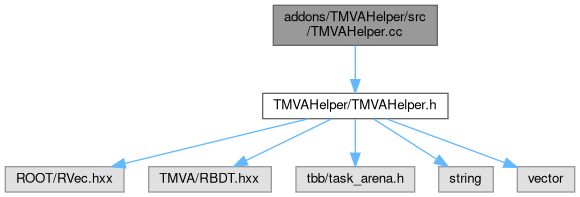
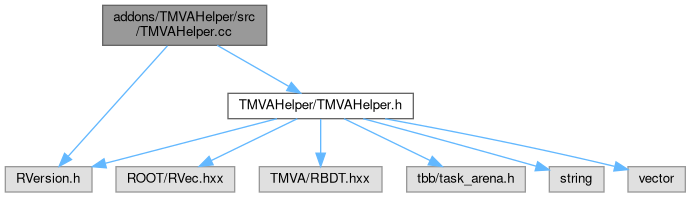
deploy: dae0778e138b87f5f8400c98a931d85608c24385

diff --git a/doc/latest/TMVAHelper_8h_source.html b/doc/latest/TMVAHelper_8h_source.html
@@ -95,35 +95,40 @@ $(document).ready(function() { init_codefold(0); });
 <div class="line"><a id="l00003" name="l00003"></a><span class="lineno">    3</span> </div>
 <div class="line"><a id="l00004" name="l00004"></a><span class="lineno">    4</span><span class="comment">// ROOT</span></div>
 <div class="line"><a id="l00005" name="l00005"></a><span class="lineno">    5</span><span class="preprocessor">#include &quot;ROOT/RVec.hxx&quot;</span></div>
-<div class="line"><a id="l00006" name="l00006"></a><span class="lineno">    6</span><span class="preprocessor">#include &quot;TMVA/RBDT.hxx&quot;</span></div>
-<div class="line"><a id="l00007" name="l00007"></a><span class="lineno">    7</span> </div>
-<div class="line"><a id="l00008" name="l00008"></a><span class="lineno">    8</span><span class="comment">// TBB</span></div>
-<div class="line"><a id="l00009" name="l00009"></a><span class="lineno">    9</span><span class="preprocessor">#include &lt;tbb/task_arena.h&gt;</span></div>
-<div class="line"><a id="l00010" name="l00010"></a><span class="lineno">   10</span> </div>
-<div class="line"><a id="l00011" name="l00011"></a><span class="lineno">   11</span><span class="comment">// std</span></div>
-<div class="line"><a id="l00012" name="l00012"></a><span class="lineno">   12</span><span class="preprocessor">#include &lt;string&gt;</span></div>
-<div class="line"><a id="l00013" name="l00013"></a><span class="lineno">   13</span><span class="preprocessor">#include &lt;vector&gt;</span></div>
-<div class="line"><a id="l00014" name="l00014"></a><span class="lineno">   14</span> </div>
-<div class="foldopen" id="foldopen00015" data-start="{" data-end="};">
-<div class="line"><a id="l00015" name="l00015"></a><span class="lineno"><a class="line" href="classtmva__helper__xgb.html">   15</a></span><span class="keyword">class </span><a class="code hl_class" href="classtmva__helper__xgb.html">tmva_helper_xgb</a> {</div>
-<div class="line"><a id="l00016" name="l00016"></a><span class="lineno">   16</span><span class="keyword">public</span>:</div>
-<div class="line"><a id="l00017" name="l00017"></a><span class="lineno">   17</span>  <a class="code hl_class" href="classtmva__helper__xgb.html">tmva_helper_xgb</a>(<span class="keyword">const</span> std::string &amp;filename, <span class="keyword">const</span> std::string &amp;name,</div>
-<div class="line"><a id="l00018" name="l00018"></a><span class="lineno">   18</span>                  <span class="keyword">const</span> <span class="keywordtype">unsigned</span> <span class="keywordtype">int</span> nslots = 1);</div>
-<div class="line"><a id="l00019" name="l00019"></a><span class="lineno"><a class="line" href="classtmva__helper__xgb.html#ae3541c62e3aa9a477e19b262e0522b0e">   19</a></span>  <a class="code hl_function" href="classtmva__helper__xgb.html#ae3541c62e3aa9a477e19b262e0522b0e">~tmva_helper_xgb</a>() {};</div>
-<div class="line"><a id="l00020" name="l00020"></a><span class="lineno">   20</span>  ROOT::VecOps::RVec&lt;float&gt; <a class="code hl_function" href="classtmva__helper__xgb.html#ad28b93612c9216be68f0e30ecfea7b20">operator()</a>(<span class="keyword">const</span> ROOT::VecOps::RVec&lt;float&gt; vars);</div>
-<div class="line"><a id="l00021" name="l00021"></a><span class="lineno">   21</span> </div>
-<div class="line"><a id="l00022" name="l00022"></a><span class="lineno">   22</span><span class="keyword">private</span>:</div>
-<div class="line"><a id="l00023" name="l00023"></a><span class="lineno">   23</span>  <span class="comment">// Default backend (template parameter) is:</span></div>
-<div class="line"><a id="l00024" name="l00024"></a><span class="lineno">   24</span>  <span class="comment">// TMVA::Experimental::BranchlessJittedForest&lt;float&gt;</span></div>
-<div class="line"><a id="l00025" name="l00025"></a><span class="lineno"><a class="line" href="classtmva__helper__xgb.html#a1504b21fe6d04b79ae1ba8093d2e6668">   25</a></span>  std::vector&lt;TMVA::Experimental::RBDT&lt;&gt;&gt; <a class="code hl_variable" href="classtmva__helper__xgb.html#a1504b21fe6d04b79ae1ba8093d2e6668">m_interpreters</a>;</div>
-<div class="line"><a id="l00026" name="l00026"></a><span class="lineno">   26</span>};</div>
+<div class="line"><a id="l00006" name="l00006"></a><span class="lineno">    6</span><span class="preprocessor">#include &quot;RVersion.h&quot;</span></div>
+<div class="line"><a id="l00007" name="l00007"></a><span class="lineno">    7</span><span class="preprocessor">#include &quot;TMVA/RBDT.hxx&quot;</span></div>
+<div class="line"><a id="l00008" name="l00008"></a><span class="lineno">    8</span> </div>
+<div class="line"><a id="l00009" name="l00009"></a><span class="lineno">    9</span><span class="comment">// TBB</span></div>
+<div class="line"><a id="l00010" name="l00010"></a><span class="lineno">   10</span><span class="preprocessor">#include &lt;tbb/task_arena.h&gt;</span></div>
+<div class="line"><a id="l00011" name="l00011"></a><span class="lineno">   11</span> </div>
+<div class="line"><a id="l00012" name="l00012"></a><span class="lineno">   12</span><span class="comment">// std</span></div>
+<div class="line"><a id="l00013" name="l00013"></a><span class="lineno">   13</span><span class="preprocessor">#include &lt;string&gt;</span></div>
+<div class="line"><a id="l00014" name="l00014"></a><span class="lineno">   14</span><span class="preprocessor">#include &lt;vector&gt;</span></div>
+<div class="line"><a id="l00015" name="l00015"></a><span class="lineno">   15</span> </div>
+<div class="foldopen" id="foldopen00016" data-start="{" data-end="};">
+<div class="line"><a id="l00016" name="l00016"></a><span class="lineno"><a class="line" href="classtmva__helper__xgb.html">   16</a></span><span class="keyword">class </span><a class="code hl_class" href="classtmva__helper__xgb.html">tmva_helper_xgb</a> {</div>
+<div class="line"><a id="l00017" name="l00017"></a><span class="lineno">   17</span><span class="keyword">public</span>:</div>
+<div class="line"><a id="l00018" name="l00018"></a><span class="lineno">   18</span>  <a class="code hl_class" href="classtmva__helper__xgb.html">tmva_helper_xgb</a>(<span class="keyword">const</span> std::string &amp;filename, <span class="keyword">const</span> std::string &amp;name,</div>
+<div class="line"><a id="l00019" name="l00019"></a><span class="lineno">   19</span>                  <span class="keyword">const</span> <span class="keywordtype">unsigned</span> <span class="keywordtype">int</span> nslots = 1);</div>
+<div class="line"><a id="l00020" name="l00020"></a><span class="lineno"><a class="line" href="classtmva__helper__xgb.html#ae3541c62e3aa9a477e19b262e0522b0e">   20</a></span>  <a class="code hl_function" href="classtmva__helper__xgb.html#ae3541c62e3aa9a477e19b262e0522b0e">~tmva_helper_xgb</a>() {};</div>
+<div class="line"><a id="l00021" name="l00021"></a><span class="lineno">   21</span>  ROOT::VecOps::RVec&lt;float&gt; <a class="code hl_function" href="classtmva__helper__xgb.html#ad28b93612c9216be68f0e30ecfea7b20">operator()</a>(<span class="keyword">const</span> ROOT::VecOps::RVec&lt;float&gt; vars);</div>
+<div class="line"><a id="l00022" name="l00022"></a><span class="lineno">   22</span> </div>
+<div class="line"><a id="l00023" name="l00023"></a><span class="lineno">   23</span><span class="keyword">private</span>:</div>
+<div class="line"><a id="l00024" name="l00024"></a><span class="lineno">   24</span>  <span class="comment">// Default backend (template parameter) is:</span></div>
+<div class="line"><a id="l00025" name="l00025"></a><span class="lineno">   25</span>  <span class="comment">// TMVA::Experimental::BranchlessJittedForest&lt;float&gt;</span></div>
+<div class="line"><a id="l00026" name="l00026"></a><span class="lineno">   26</span><span class="preprocessor">#if ROOT_VERSION_CODE &gt;= ROOT_VERSION(6, 32, 0)</span></div>
+<div class="line"><a id="l00027" name="l00027"></a><span class="lineno"><a class="line" href="classtmva__helper__xgb.html#a1cfd45bd8126ea25c943ca53a1dcde8b">   27</a></span>  std::vector&lt;TMVA::Experimental::RBDT&gt; <a class="code hl_variable" href="classtmva__helper__xgb.html#a1cfd45bd8126ea25c943ca53a1dcde8b">m_interpreters</a>;</div>
+<div class="line"><a id="l00028" name="l00028"></a><span class="lineno">   28</span><span class="preprocessor">#else</span></div>
+<div class="line"><a id="l00029" name="l00029"></a><span class="lineno">   29</span>  std::vector&lt;TMVA::Experimental::RBDT&lt;&gt;&gt; <a class="code hl_variable" href="classtmva__helper__xgb.html#a1cfd45bd8126ea25c943ca53a1dcde8b">m_interpreters</a>;</div>
+<div class="line"><a id="l00030" name="l00030"></a><span class="lineno">   30</span><span class="preprocessor">#endif</span></div>
+<div class="line"><a id="l00031" name="l00031"></a><span class="lineno">   31</span>};</div>
 </div>
-<div class="line"><a id="l00027" name="l00027"></a><span class="lineno">   27</span> </div>
-<div class="line"><a id="l00028" name="l00028"></a><span class="lineno">   28</span><span class="preprocessor">#endif</span></div>
-<div class="ttc" id="aclasstmva__helper__xgb_html"><div class="ttname"><a href="classtmva__helper__xgb.html">tmva_helper_xgb</a></div><div class="ttdef"><b>Definition</b> TMVAHelper.h:15</div></div>
-<div class="ttc" id="aclasstmva__helper__xgb_html_a1504b21fe6d04b79ae1ba8093d2e6668"><div class="ttname"><a href="classtmva__helper__xgb.html#a1504b21fe6d04b79ae1ba8093d2e6668">tmva_helper_xgb::m_interpreters</a></div><div class="ttdeci">std::vector&lt; TMVA::Experimental::RBDT&lt;&gt; &gt; m_interpreters</div><div class="ttdef"><b>Definition</b> TMVAHelper.h:25</div></div>
-<div class="ttc" id="aclasstmva__helper__xgb_html_ad28b93612c9216be68f0e30ecfea7b20"><div class="ttname"><a href="classtmva__helper__xgb.html#ad28b93612c9216be68f0e30ecfea7b20">tmva_helper_xgb::operator()</a></div><div class="ttdeci">ROOT::VecOps::RVec&lt; float &gt; operator()(const ROOT::VecOps::RVec&lt; float &gt; vars)</div><div class="ttdef"><b>Definition</b> TMVAHelper.cc:15</div></div>
-<div class="ttc" id="aclasstmva__helper__xgb_html_ae3541c62e3aa9a477e19b262e0522b0e"><div class="ttname"><a href="classtmva__helper__xgb.html#ae3541c62e3aa9a477e19b262e0522b0e">tmva_helper_xgb::~tmva_helper_xgb</a></div><div class="ttdeci">~tmva_helper_xgb()</div><div class="ttdef"><b>Definition</b> TMVAHelper.h:19</div></div>
+<div class="line"><a id="l00032" name="l00032"></a><span class="lineno">   32</span> </div>
+<div class="line"><a id="l00033" name="l00033"></a><span class="lineno">   33</span><span class="preprocessor">#endif</span></div>
+<div class="ttc" id="aclasstmva__helper__xgb_html"><div class="ttname"><a href="classtmva__helper__xgb.html">tmva_helper_xgb</a></div><div class="ttdef"><b>Definition</b> TMVAHelper.h:16</div></div>
+<div class="ttc" id="aclasstmva__helper__xgb_html_a1cfd45bd8126ea25c943ca53a1dcde8b"><div class="ttname"><a href="classtmva__helper__xgb.html#a1cfd45bd8126ea25c943ca53a1dcde8b">tmva_helper_xgb::m_interpreters</a></div><div class="ttdeci">std::vector&lt; TMVA::Experimental::RBDT &gt; m_interpreters</div><div class="ttdef"><b>Definition</b> TMVAHelper.h:27</div></div>
+<div class="ttc" id="aclasstmva__helper__xgb_html_ad28b93612c9216be68f0e30ecfea7b20"><div class="ttname"><a href="classtmva__helper__xgb.html#ad28b93612c9216be68f0e30ecfea7b20">tmva_helper_xgb::operator()</a></div><div class="ttdeci">ROOT::VecOps::RVec&lt; float &gt; operator()(const ROOT::VecOps::RVec&lt; float &gt; vars)</div><div class="ttdef"><b>Definition</b> TMVAHelper.cc:22</div></div>
+<div class="ttc" id="aclasstmva__helper__xgb_html_ae3541c62e3aa9a477e19b262e0522b0e"><div class="ttname"><a href="classtmva__helper__xgb.html#ae3541c62e3aa9a477e19b262e0522b0e">tmva_helper_xgb::~tmva_helper_xgb</a></div><div class="ttdeci">~tmva_helper_xgb()</div><div class="ttdef"><b>Definition</b> TMVAHelper.h:20</div></div>
 </div><!-- fragment --></div><!-- contents -->
 <!-- HTML footer for doxygen 1.9.8-->
 <!-- start footer part -->

diff --git a/doc/latest/classtmva__helper__xgb.html b/doc/latest/classtmva__helper__xgb.html
@@ -92,9 +92,9 @@ Collaboration diagram for tmva_helper_xgb:</div>
 <div class="dyncontent">
 <div class="center"><img src="classtmva__helper__xgb__coll__graph.png" border="0" usemap="#atmva__helper__xgb_coll__map" alt="Collaboration graph"/></div>
 <map name="atmva__helper__xgb_coll__map" id="atmva__helper__xgb_coll__map">
-<area shape="rect" title=" " alt="" coords="31,108,151,133"/>
-<area shape="rect" title=" " alt="" coords="5,5,176,45"/>
-<area shape="poly" title=" " alt="" coords="93,59,93,108,88,108,88,59"/>
+<area shape="rect" title=" " alt="" coords="23,108,143,133"/>
+<area shape="rect" title=" " alt="" coords="5,5,160,45"/>
+<area shape="poly" title=" " alt="" coords="85,59,85,108,80,108,80,59"/>
 </map>
 <center><span class="legend">[<a href="graph_legend.html">legend</a>]</span></center></div>
 <table class="memberdecls">
@@ -109,8 +109,8 @@ Public Member Functions</h2></td></tr>
 </table><table class="memberdecls">
 <tr class="heading"><td colspan="2"><h2 class="groupheader"><a id="pri-attribs" name="pri-attribs"></a>
 Private Attributes</h2></td></tr>
-<tr class="memitem:a1504b21fe6d04b79ae1ba8093d2e6668" id="r_a1504b21fe6d04b79ae1ba8093d2e6668"><td class="memItemLeft" align="right" valign="top">std::vector&lt; TMVA::Experimental::RBDT&lt;&gt; &gt;&#160;</td><td class="memItemRight" valign="bottom"><a class="el" href="classtmva__helper__xgb.html#a1504b21fe6d04b79ae1ba8093d2e6668">m_interpreters</a></td></tr>
-<tr class="separator:a1504b21fe6d04b79ae1ba8093d2e6668"><td class="memSeparator" colspan="2">&#160;</td></tr>
+<tr class="memitem:a1cfd45bd8126ea25c943ca53a1dcde8b" id="r_a1cfd45bd8126ea25c943ca53a1dcde8b"><td class="memItemLeft" align="right" valign="top">std::vector&lt; TMVA::Experimental::RBDT &gt;&#160;</td><td class="memItemRight" valign="bottom"><a class="el" href="classtmva__helper__xgb.html#a1cfd45bd8126ea25c943ca53a1dcde8b">m_interpreters</a></td></tr>
+<tr class="separator:a1cfd45bd8126ea25c943ca53a1dcde8b"><td class="memSeparator" colspan="2">&#160;</td></tr>
 </table>
 <h2 class="groupheader">Constructor &amp; Destructor Documentation</h2>
 <a id="ab811a37ae2568b3469f97adcea655cd0" name="ab811a37ae2568b3469f97adcea655cd0"></a>
@@ -192,8 +192,8 @@ Private Attributes</h2></td></tr>
 </div>
 </div>
 <h2 class="groupheader">Member Data Documentation</h2>
-<a id="a1504b21fe6d04b79ae1ba8093d2e6668" name="a1504b21fe6d04b79ae1ba8093d2e6668"></a>
-<h2 class="memtitle"><span class="permalink"><a href="#a1504b21fe6d04b79ae1ba8093d2e6668">&#9670;&#160;</a></span>m_interpreters</h2>
+<a id="a1cfd45bd8126ea25c943ca53a1dcde8b" name="a1cfd45bd8126ea25c943ca53a1dcde8b"></a>
+<h2 class="memtitle"><span class="permalink"><a href="#a1cfd45bd8126ea25c943ca53a1dcde8b">&#9670;&#160;</a></span>m_interpreters</h2>
 
 <div class="memitem">
 <div class="memproto">
@@ -202,7 +202,7 @@ Private Attributes</h2></td></tr>
   <td class="mlabels-left">
       <table class="memname">
         <tr>
-          <td class="memname">std::vector&lt;TMVA::Experimental::RBDT&lt;&gt; &gt; tmva_helper_xgb::m_interpreters</td>
+          <td class="memname">std::vector&lt;TMVA::Experimental::RBDT&gt; tmva_helper_xgb::m_interpreters</td>
         </tr>
       </table>
   </td>

diff --git a/doc/latest/TMVAHelper_8cc.html b/doc/latest/TMVAHelper_8cc.html
@@ -86,24 +86,28 @@ $(function() {
 </div><!--header-->
 <div class="contents">
 <div class="textblock"><code>#include &quot;<a class="el" href="TMVAHelper_8h_source.html">TMVAHelper/TMVAHelper.h</a>&quot;</code><br />
+<code>#include &quot;RVersion.h&quot;</code><br />
 </div><div class="textblock"><div class="dynheader">
 Include dependency graph for TMVAHelper.cc:</div>
 <div class="dyncontent">
 <div class="center"><img src="TMVAHelper_8cc__incl.png" border="0" usemap="#aaddons_2TMVAHelper_2src_2TMVAHelper_8cc" alt=""/></div>
 <map name="aaddons_2TMVAHelper_2src_2TMVAHelper_8cc" id="aaddons_2TMVAHelper_2src_2TMVAHelper_8cc">
-<area shape="rect" title=" " alt="" coords="273,5,437,45"/>
-<area shape="rect" href="TMVAHelper_8h.html" title=" " alt="" coords="263,93,448,119"/>
-<area shape="poly" title=" " alt="" coords="358,46,358,79,353,79,353,46"/>
-<area shape="rect" title=" " alt="" coords="5,167,124,192"/>
-<area shape="poly" title=" " alt="" coords="309,121,125,166,124,161,308,116"/>
-<area shape="rect" title=" " alt="" coords="149,167,271,192"/>
-<area shape="poly" title=" " alt="" coords="333,121,247,163,245,158,331,116"/>
-<area shape="rect" title=" " alt="" coords="296,167,415,192"/>
-<area shape="poly" title=" " alt="" coords="358,119,358,153,353,153,353,119"/>
-<area shape="rect" title=" " alt="" coords="439,167,493,192"/>
-<area shape="poly" title=" " alt="" coords="375,116,438,157,435,161,372,121"/>
-<area shape="rect" title=" " alt="" coords="517,167,575,192"/>
-<area shape="poly" title=" " alt="" coords="387,116,505,160,504,165,385,121"/>
+<area shape="rect" title=" " alt="" coords="103,5,267,45"/>
+<area shape="rect" href="TMVAHelper_8h.html" title=" " alt="" coords="228,93,413,119"/>
+<area shape="poly" title=" " alt="" coords="219,43,290,84,287,89,216,48"/>
+<area shape="rect" title=" " alt="" coords="5,167,92,192"/>
+<area shape="poly" title=" " alt="" coords="169,48,70,158,66,154,165,44"/>
+<area shape="rect" title=" " alt="" coords="116,167,235,192"/>
+<area shape="poly" title=" " alt="" coords="298,121,212,163,210,158,296,116"/>
+<area shape="poly" title=" " alt="" coords="278,121,106,166,105,161,276,116"/>
+<area shape="rect" title=" " alt="" coords="259,167,382,192"/>
+<area shape="poly" title=" " alt="" coords="323,119,323,153,318,153,318,119"/>
+<area shape="rect" title=" " alt="" coords="407,167,525,192"/>
+<area shape="poly" title=" " alt="" coords="345,116,431,158,429,163,343,121"/>
+<area shape="rect" title=" " alt="" coords="549,167,604,192"/>
+<area shape="poly" title=" " alt="" coords="364,116,537,164,535,169,363,121"/>
+<area shape="rect" title=" " alt="" coords="628,167,685,192"/>
+<area shape="poly" title=" " alt="" coords="386,116,615,164,614,169,385,121"/>
 </map>
 </div>
 </div></div><!-- contents -->

diff --git a/doc/latest/TMVAHelper_8h.html b/doc/latest/TMVAHelper_8h.html
@@ -88,6 +88,7 @@ $(function() {
 </div><!--header-->
 <div class="contents">
 <div class="textblock"><code>#include &quot;ROOT/RVec.hxx&quot;</code><br />
+<code>#include &quot;RVersion.h&quot;</code><br />
 <code>#include &quot;TMVA/RBDT.hxx&quot;</code><br />
 <code>#include &lt;tbb/task_arena.h&gt;</code><br />
 <code>#include &lt;string&gt;</code><br />
@@ -97,17 +98,19 @@ Include dependency graph for TMVAHelper.h:</div>
 <div class="dyncontent">
 <div class="center"><img src="TMVAHelper_8h__incl.png" border="0" usemap="#aaddons_2TMVAHelper_2TMVAHelper_8h" alt=""/></div>
 <map name="aaddons_2TMVAHelper_2TMVAHelper_8h" id="aaddons_2TMVAHelper_2TMVAHelper_8h">
-<area shape="rect" title=" " alt="" coords="240,5,471,31"/>
+<area shape="rect" title=" " alt="" coords="277,5,508,31"/>
 <area shape="rect" title=" " alt="" coords="5,79,124,104"/>
-<area shape="poly" title=" " alt="" coords="309,33,125,78,124,73,308,28"/>
-<area shape="rect" title=" " alt="" coords="149,79,271,104"/>
-<area shape="poly" title=" " alt="" coords="333,33,247,75,245,70,331,28"/>
-<area shape="rect" title=" " alt="" coords="296,79,415,104"/>
-<area shape="poly" title=" " alt="" coords="358,31,358,65,353,65,353,31"/>
-<area shape="rect" title=" " alt="" coords="439,79,493,104"/>
-<area shape="poly" title=" " alt="" coords="375,28,438,69,435,73,372,33"/>
-<area shape="rect" title=" " alt="" coords="517,79,575,104"/>
-<area shape="poly" title=" " alt="" coords="387,28,505,72,504,77,385,33"/>
+<area shape="poly" title=" " alt="" coords="341,33,131,78,130,73,339,28"/>
+<area shape="rect" title=" " alt="" coords="148,79,235,104"/>
+<area shape="poly" title=" " alt="" coords="361,33,238,77,236,71,359,28"/>
+<area shape="rect" title=" " alt="" coords="259,79,382,104"/>
+<area shape="poly" title=" " alt="" coords="383,33,344,71,340,67,379,29"/>
+<area shape="rect" title=" " alt="" coords="407,79,525,104"/>
+<area shape="poly" title=" " alt="" coords="407,29,446,67,442,71,403,33"/>
+<area shape="rect" title=" " alt="" coords="549,79,604,104"/>
+<area shape="poly" title=" " alt="" coords="423,28,537,72,535,77,421,33"/>
+<area shape="rect" title=" " alt="" coords="628,79,685,104"/>
+<area shape="poly" title=" " alt="" coords="437,28,616,76,614,81,436,33"/>
 </map>
 </div>
 </div><div class="textblock"><div class="dynheader">

diff --git a/doc/latest/classtmva__helper__xgb-members.html b/doc/latest/classtmva__helper__xgb-members.html
@@ -84,7 +84,7 @@ $(function() {
 
 <p>This is the complete list of members for <a class="el" href="classtmva__helper__xgb.html">tmva_helper_xgb</a>, including all inherited members.</p>
 <table class="directory">
-  <tr class="even"><td class="entry"><a class="el" href="classtmva__helper__xgb.html#a1504b21fe6d04b79ae1ba8093d2e6668">m_interpreters</a></td><td class="entry"><a class="el" href="classtmva__helper__xgb.html">tmva_helper_xgb</a></td><td class="entry"><span class="mlabel">private</span></td></tr>
+  <tr class="even"><td class="entry"><a class="el" href="classtmva__helper__xgb.html#a1cfd45bd8126ea25c943ca53a1dcde8b">m_interpreters</a></td><td class="entry"><a class="el" href="classtmva__helper__xgb.html">tmva_helper_xgb</a></td><td class="entry"><span class="mlabel">private</span></td></tr>
   <tr class="odd"><td class="entry"><a class="el" href="classtmva__helper__xgb.html#ad28b93612c9216be68f0e30ecfea7b20">operator()</a>(const ROOT::VecOps::RVec&lt; float &gt; vars)</td><td class="entry"><a class="el" href="classtmva__helper__xgb.html">tmva_helper_xgb</a></td><td class="entry"></td></tr>
   <tr class="even"><td class="entry"><a class="el" href="classtmva__helper__xgb.html#ab811a37ae2568b3469f97adcea655cd0">tmva_helper_xgb</a>(const std::string &amp;filename, const std::string &amp;name, const unsigned int nslots=1)</td><td class="entry"><a class="el" href="classtmva__helper__xgb.html">tmva_helper_xgb</a></td><td class="entry"></td></tr>
   <tr class="odd"><td class="entry"><a class="el" href="classtmva__helper__xgb.html#ae3541c62e3aa9a477e19b262e0522b0e">~tmva_helper_xgb</a>()</td><td class="entry"><a class="el" href="classtmva__helper__xgb.html">tmva_helper_xgb</a></td><td class="entry"><span class="mlabel">inline</span></td></tr>

diff --git a/doc/latest/functions_m.html b/doc/latest/functions_m.html
@@ -103,7 +103,7 @@ $(function() {
 <li>m_inclusiveDecay&#160;:&#160;<a class="el" href="structFCCAnalyses_1_1MCParticle_1_1get__indices.html#a779621e350fd47ed2d4149d3b09f769e">FCCAnalyses::MCParticle::get_indices</a></li>
 <li>m_index&#160;:&#160;<a class="el" href="structFCCAnalyses_1_1MCParticle_1_1get__tree.html#a2f9542628db1b388d3f52fac4803c315">FCCAnalyses::MCParticle::get_tree</a></li>
 <li>m_inf&#160;:&#160;<a class="el" href="structFCCAnalyses_1_1MCParticle_1_1get__decay.html#ae13868d985cfaf0715b27959fd3f4f77">FCCAnalyses::MCParticle::get_decay</a></li>
-<li>m_interpreters&#160;:&#160;<a class="el" href="classtmva__helper__xgb.html#a1504b21fe6d04b79ae1ba8093d2e6668">tmva_helper_xgb</a></li>
+<li>m_interpreters&#160;:&#160;<a class="el" href="classtmva__helper__xgb.html#a1cfd45bd8126ea25c943ca53a1dcde8b">tmva_helper_xgb</a></li>
 <li>m_mass&#160;:&#160;<a class="el" href="structFCCAnalyses_1_1myUtils_1_1build__D0.html#ae2889d05c7b51930024c38b344da94f8">FCCAnalyses::myUtils::build_D0</a></li>
 <li>m_masshigh&#160;:&#160;<a class="el" href="structFCCAnalyses_1_1myUtils_1_1build__tau23pi.html#a64a7baba427a241ed3838e4f2fd407b9">FCCAnalyses::myUtils::build_tau23pi</a></li>
 <li>m_masslow&#160;:&#160;<a class="el" href="structFCCAnalyses_1_1myUtils_1_1build__tau23pi.html#a53b5393605647dda58fb48b9b13e41d8">FCCAnalyses::myUtils::build_tau23pi</a></li>

diff --git a/doc/latest/functions_vars_m.html b/doc/latest/functions_vars_m.html
@@ -103,7 +103,7 @@ $(function() {
 <li>m_inclusiveDecay&#160;:&#160;<a class="el" href="structFCCAnalyses_1_1MCParticle_1_1get__indices.html#a779621e350fd47ed2d4149d3b09f769e">FCCAnalyses::MCParticle::get_indices</a></li>
 <li>m_index&#160;:&#160;<a class="el" href="structFCCAnalyses_1_1MCParticle_1_1get__tree.html#a2f9542628db1b388d3f52fac4803c315">FCCAnalyses::MCParticle::get_tree</a></li>
 <li>m_inf&#160;:&#160;<a class="el" href="structFCCAnalyses_1_1MCParticle_1_1get__decay.html#ae13868d985cfaf0715b27959fd3f4f77">FCCAnalyses::MCParticle::get_decay</a></li>
-<li>m_interpreters&#160;:&#160;<a class="el" href="classtmva__helper__xgb.html#a1504b21fe6d04b79ae1ba8093d2e6668">tmva_helper_xgb</a></li>
+<li>m_interpreters&#160;:&#160;<a class="el" href="classtmva__helper__xgb.html#a1cfd45bd8126ea25c943ca53a1dcde8b">tmva_helper_xgb</a></li>
 <li>m_mass&#160;:&#160;<a class="el" href="structFCCAnalyses_1_1myUtils_1_1build__D0.html#ae2889d05c7b51930024c38b344da94f8">FCCAnalyses::myUtils::build_D0</a></li>
 <li>m_masshigh&#160;:&#160;<a class="el" href="structFCCAnalyses_1_1myUtils_1_1build__tau23pi.html#a64a7baba427a241ed3838e4f2fd407b9">FCCAnalyses::myUtils::build_tau23pi</a></li>
 <li>m_masslow&#160;:&#160;<a class="el" href="structFCCAnalyses_1_1myUtils_1_1build__tau23pi.html#a53b5393605647dda58fb48b9b13e41d8">FCCAnalyses::myUtils::build_tau23pi</a></li>

diff --git a/doc/latest/search/all_d.js b/doc/latest/search/all_d.js
@@ -24,7 +24,7 @@ var searchData=
   ['m_5finclusivedecay_21',['m_inclusiveDecay',['../structFCCAnalyses_1_1MCParticle_1_1get__indices.html#a779621e350fd47ed2d4149d3b09f769e',1,'FCCAnalyses::MCParticle::get_indices']]],
   ['m_5findex_22',['m_index',['../structFCCAnalyses_1_1MCParticle_1_1get__tree.html#a2f9542628db1b388d3f52fac4803c315',1,'FCCAnalyses::MCParticle::get_tree']]],
   ['m_5finf_23',['m_inf',['../structFCCAnalyses_1_1MCParticle_1_1get__decay.html#ae13868d985cfaf0715b27959fd3f4f77',1,'FCCAnalyses::MCParticle::get_decay']]],
-  ['m_5finterpreters_24',['m_interpreters',['../classtmva__helper__xgb.html#a1504b21fe6d04b79ae1ba8093d2e6668',1,'tmva_helper_xgb']]],
+  ['m_5finterpreters_24',['m_interpreters',['../classtmva__helper__xgb.html#a1cfd45bd8126ea25c943ca53a1dcde8b',1,'tmva_helper_xgb']]],
   ['m_5fmass_25',['m_mass',['../structFCCAnalyses_1_1myUtils_1_1build__D0.html#ae2889d05c7b51930024c38b344da94f8',1,'FCCAnalyses::myUtils::build_D0']]],
   ['m_5fmasshigh_26',['m_masshigh',['../structFCCAnalyses_1_1myUtils_1_1build__tau23pi.html#a64a7baba427a241ed3838e4f2fd407b9',1,'FCCAnalyses::myUtils::build_tau23pi']]],
   ['m_5fmasslow_27',['m_masslow',['../structFCCAnalyses_1_1myUtils_1_1build__tau23pi.html#a53b5393605647dda58fb48b9b13e41d8',1,'FCCAnalyses::myUtils::build_tau23pi']]],

diff --git a/doc/latest/search/variables_a.js b/doc/latest/search/variables_a.js
@@ -24,7 +24,7 @@ var searchData=
   ['m_5finclusivedecay_21',['m_inclusiveDecay',['../structFCCAnalyses_1_1MCParticle_1_1get__indices.html#a779621e350fd47ed2d4149d3b09f769e',1,'FCCAnalyses::MCParticle::get_indices']]],
   ['m_5findex_22',['m_index',['../structFCCAnalyses_1_1MCParticle_1_1get__tree.html#a2f9542628db1b388d3f52fac4803c315',1,'FCCAnalyses::MCParticle::get_tree']]],
   ['m_5finf_23',['m_inf',['../structFCCAnalyses_1_1MCParticle_1_1get__decay.html#ae13868d985cfaf0715b27959fd3f4f77',1,'FCCAnalyses::MCParticle::get_decay']]],
-  ['m_5finterpreters_24',['m_interpreters',['../classtmva__helper__xgb.html#a1504b21fe6d04b79ae1ba8093d2e6668',1,'tmva_helper_xgb']]],
+  ['m_5finterpreters_24',['m_interpreters',['../classtmva__helper__xgb.html#a1cfd45bd8126ea25c943ca53a1dcde8b',1,'tmva_helper_xgb']]],
   ['m_5fmass_25',['m_mass',['../structFCCAnalyses_1_1myUtils_1_1build__D0.html#ae2889d05c7b51930024c38b344da94f8',1,'FCCAnalyses::myUtils::build_D0']]],
   ['m_5fmasshigh_26',['m_masshigh',['../structFCCAnalyses_1_1myUtils_1_1build__tau23pi.html#a64a7baba427a241ed3838e4f2fd407b9',1,'FCCAnalyses::myUtils::build_tau23pi']]],
   ['m_5fmasslow_27',['m_masslow',['../structFCCAnalyses_1_1myUtils_1_1build__tau23pi.html#a53b5393605647dda58fb48b9b13e41d8',1,'FCCAnalyses::myUtils::build_tau23pi']]],
